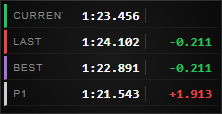
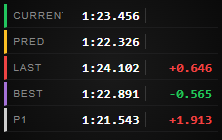
feat(lap-times): add PRED row showing estimated lap time from live delta (#103)

diff --git a/src/components/widgets/LapTimesWidget/LapTimesWidget.tsx b/src/components/widgets/LapTimesWidget/LapTimesWidget.tsx
@@ -6,6 +6,7 @@ import styles from './LapTimesWidget.module.scss';
 
 interface LapTimesWidgetProps {
   currentLapTime: string;
+  predictedLapTime: string;
   lastLapTime: string;
   lastDelta: string;
   lastDeltaColor?: string;
@@ -19,6 +20,7 @@ interface LapTimesWidgetProps {
 }
 
 const COLOR_CURRENT = '#22c55e';
+const COLOR_PREDICTED = '#fbbf24';
 const COLOR_LAST = '#ef4444';
 const COLOR_BEST = 'rgba(192, 132, 252, 0.85)';
 const COLOR_P1 = 'rgba(238, 238, 238, 0.85)';
@@ -33,6 +35,7 @@ interface RowConfig {
 
 export const LapTimesWidget = ({
   currentLapTime,
+  predictedLapTime,
   lastLapTime,
   lastDelta,
   lastDeltaColor,
@@ -54,6 +57,15 @@ export const LapTimesWidget = ({
       accentColor: COLOR_CURRENT,
     },
   ];
+
+  if (settings.showPredicted) {
+    rows.push({
+      label: 'PRED',
+      time: predictedLapTime,
+      delta: '',
+      accentColor: COLOR_PREDICTED,
+    });
+  }
 
   if (settings.showLastLap) {
     rows.push({

diff --git a/src/pages/MainWindow/components/WidgetSettings/panels/LapTimesSettingsPanel.tsx b/src/pages/MainWindow/components/WidgetSettings/panels/LapTimesSettingsPanel.tsx
@@ -37,6 +37,12 @@ export const LapTimesSettingsPanel = observer(() => {
       <Card title="Visible Rows">
         {[
           {
+            title: 'Show Predicted Lap',
+            desc: 'Estimated finish time for the current lap based on live delta.',
+            value: settings.showPredicted,
+            key: 'showPredicted',
+          },
+          {
             title: 'Show Last Lap',
             desc: 'Display the time of the last completed lap.',
             value: settings.showLastLap,

diff --git a/src/store/widget-settings.store.ts b/src/store/widget-settings.store.ts
@@ -321,7 +321,11 @@ class WidgetSettingsStore {
   }
 
   getLapTimesSettings(): LapTimesWidgetSettings {
-    return this.getSettings('lap-times', 'lap-times');
+    const s = this.getSettings<LapTimesWidgetSettings>(
+      'lap-times',
+      'lap-times'
+    );
+    return { ...s, showPredicted: s.showPredicted ?? true };
   }
 
   getChassisSettings(): ChassisWidgetSettings {

diff --git a/src/components/widgets/LapTimesWidget/LapTimesWidget.stories.tsx b/src/components/widgets/LapTimesWidget/LapTimesWidget.stories.tsx
@@ -6,6 +6,7 @@ const DEFAULT_SETTINGS = {
   showLastLap: true,
   showBestLap: true,
   showP1: true,
+  showPredicted: true,
   layout: 'vertical' as const,
 };
 
@@ -29,6 +30,7 @@ const meta: Meta<typeof LapTimesWidget> = {
   ],
   args: {
     currentLapTime: '1:23.456',
+    predictedLapTime: '1:22.326',
     lastLapTime: '1:24.102',
     lastDelta: '+0.646',
     lastDeltaColor: '#ef4444',
@@ -54,7 +56,7 @@ export const Horizontal: Story = {
         style={{
           background: 'radial-gradient(circle, #1a1a1a 0%, #0a0a0a 100%)',
           overflow: 'hidden',
-          width: 700,
+          width: 1150,
         }}
       >
         <Story />
@@ -89,6 +91,7 @@ export const WithDeltas: Story = {
 export const NoData: Story = {
   args: {
     currentLapTime: '--:--.---',
+    predictedLapTime: '--:--.---',
     lastLapTime: '--:--.---',
     lastDelta: '+-.---',
     bestLapTime: '--:--.---',

diff --git a/src/components/widgets/LapTimesWidget/LapTimesWidgetContainer.tsx b/src/components/widgets/LapTimesWidget/LapTimesWidgetContainer.tsx
@@ -50,6 +50,9 @@ export const LapTimesWidgetContainer = observer(() => {
 
   const liveDelta = lapDelta?.personalBestTotal ?? null;
 
+  const predictedLap =
+    bestLap !== null && liveDelta !== null ? bestLap + liveDelta : null;
+
   const bestDelta = liveDelta;
 
   const lastDelta =
@@ -65,6 +68,7 @@ export const LapTimesWidgetContainer = observer(() => {
   return (
     <LapTimesWidget
       currentLapTime={formatLapTime(currentLap)}
+      predictedLapTime={formatLapTime(predictedLap)}
       lastLapTime={formatLapTime(lastLap)}
       lastDelta={formatDelta(lastDelta)}
       lastDeltaColor={getDeltaColor(lastDelta)}

diff --git a/src/store/widget-defaults.ts b/src/store/widget-defaults.ts
@@ -350,6 +350,7 @@ export const DEFAULT_WIDGETS: WidgetConfig[] = [
         showLastLap: true,
         showBestLap: true,
         showP1: true,
+        showPredicted: true,
         layout: 'vertical',
       },
     },

diff --git a/src/types/widget-settings.ts b/src/types/widget-settings.ts
@@ -112,6 +112,7 @@ export interface LapTimesWidgetSettings {
   showLastLap: boolean;
   showBestLap: boolean;
   showP1: boolean;
+  showPredicted: boolean;
   layout: LapTimesLayout;
   layoutWidths?: Partial<Record<LapTimesLayout, number>>;
 }

diff --git a/README.md b/README.md
@@ -138,7 +138,7 @@ Every widget is independently positioned, resized, and styled — drag it anywhe
 
 ### Lap Times
 
-> Current, last, and best lap with per-sector deltas. Vertical list or compact horizontal strip.
+> Current lap, predicted finish time, last, and best lap with deltas. Vertical list or compact horizontal strip.
 
 <p>
   <img src="docs/assets/screenshots/lap-times-widget.png" alt="Lap Times — vertical with deltas">